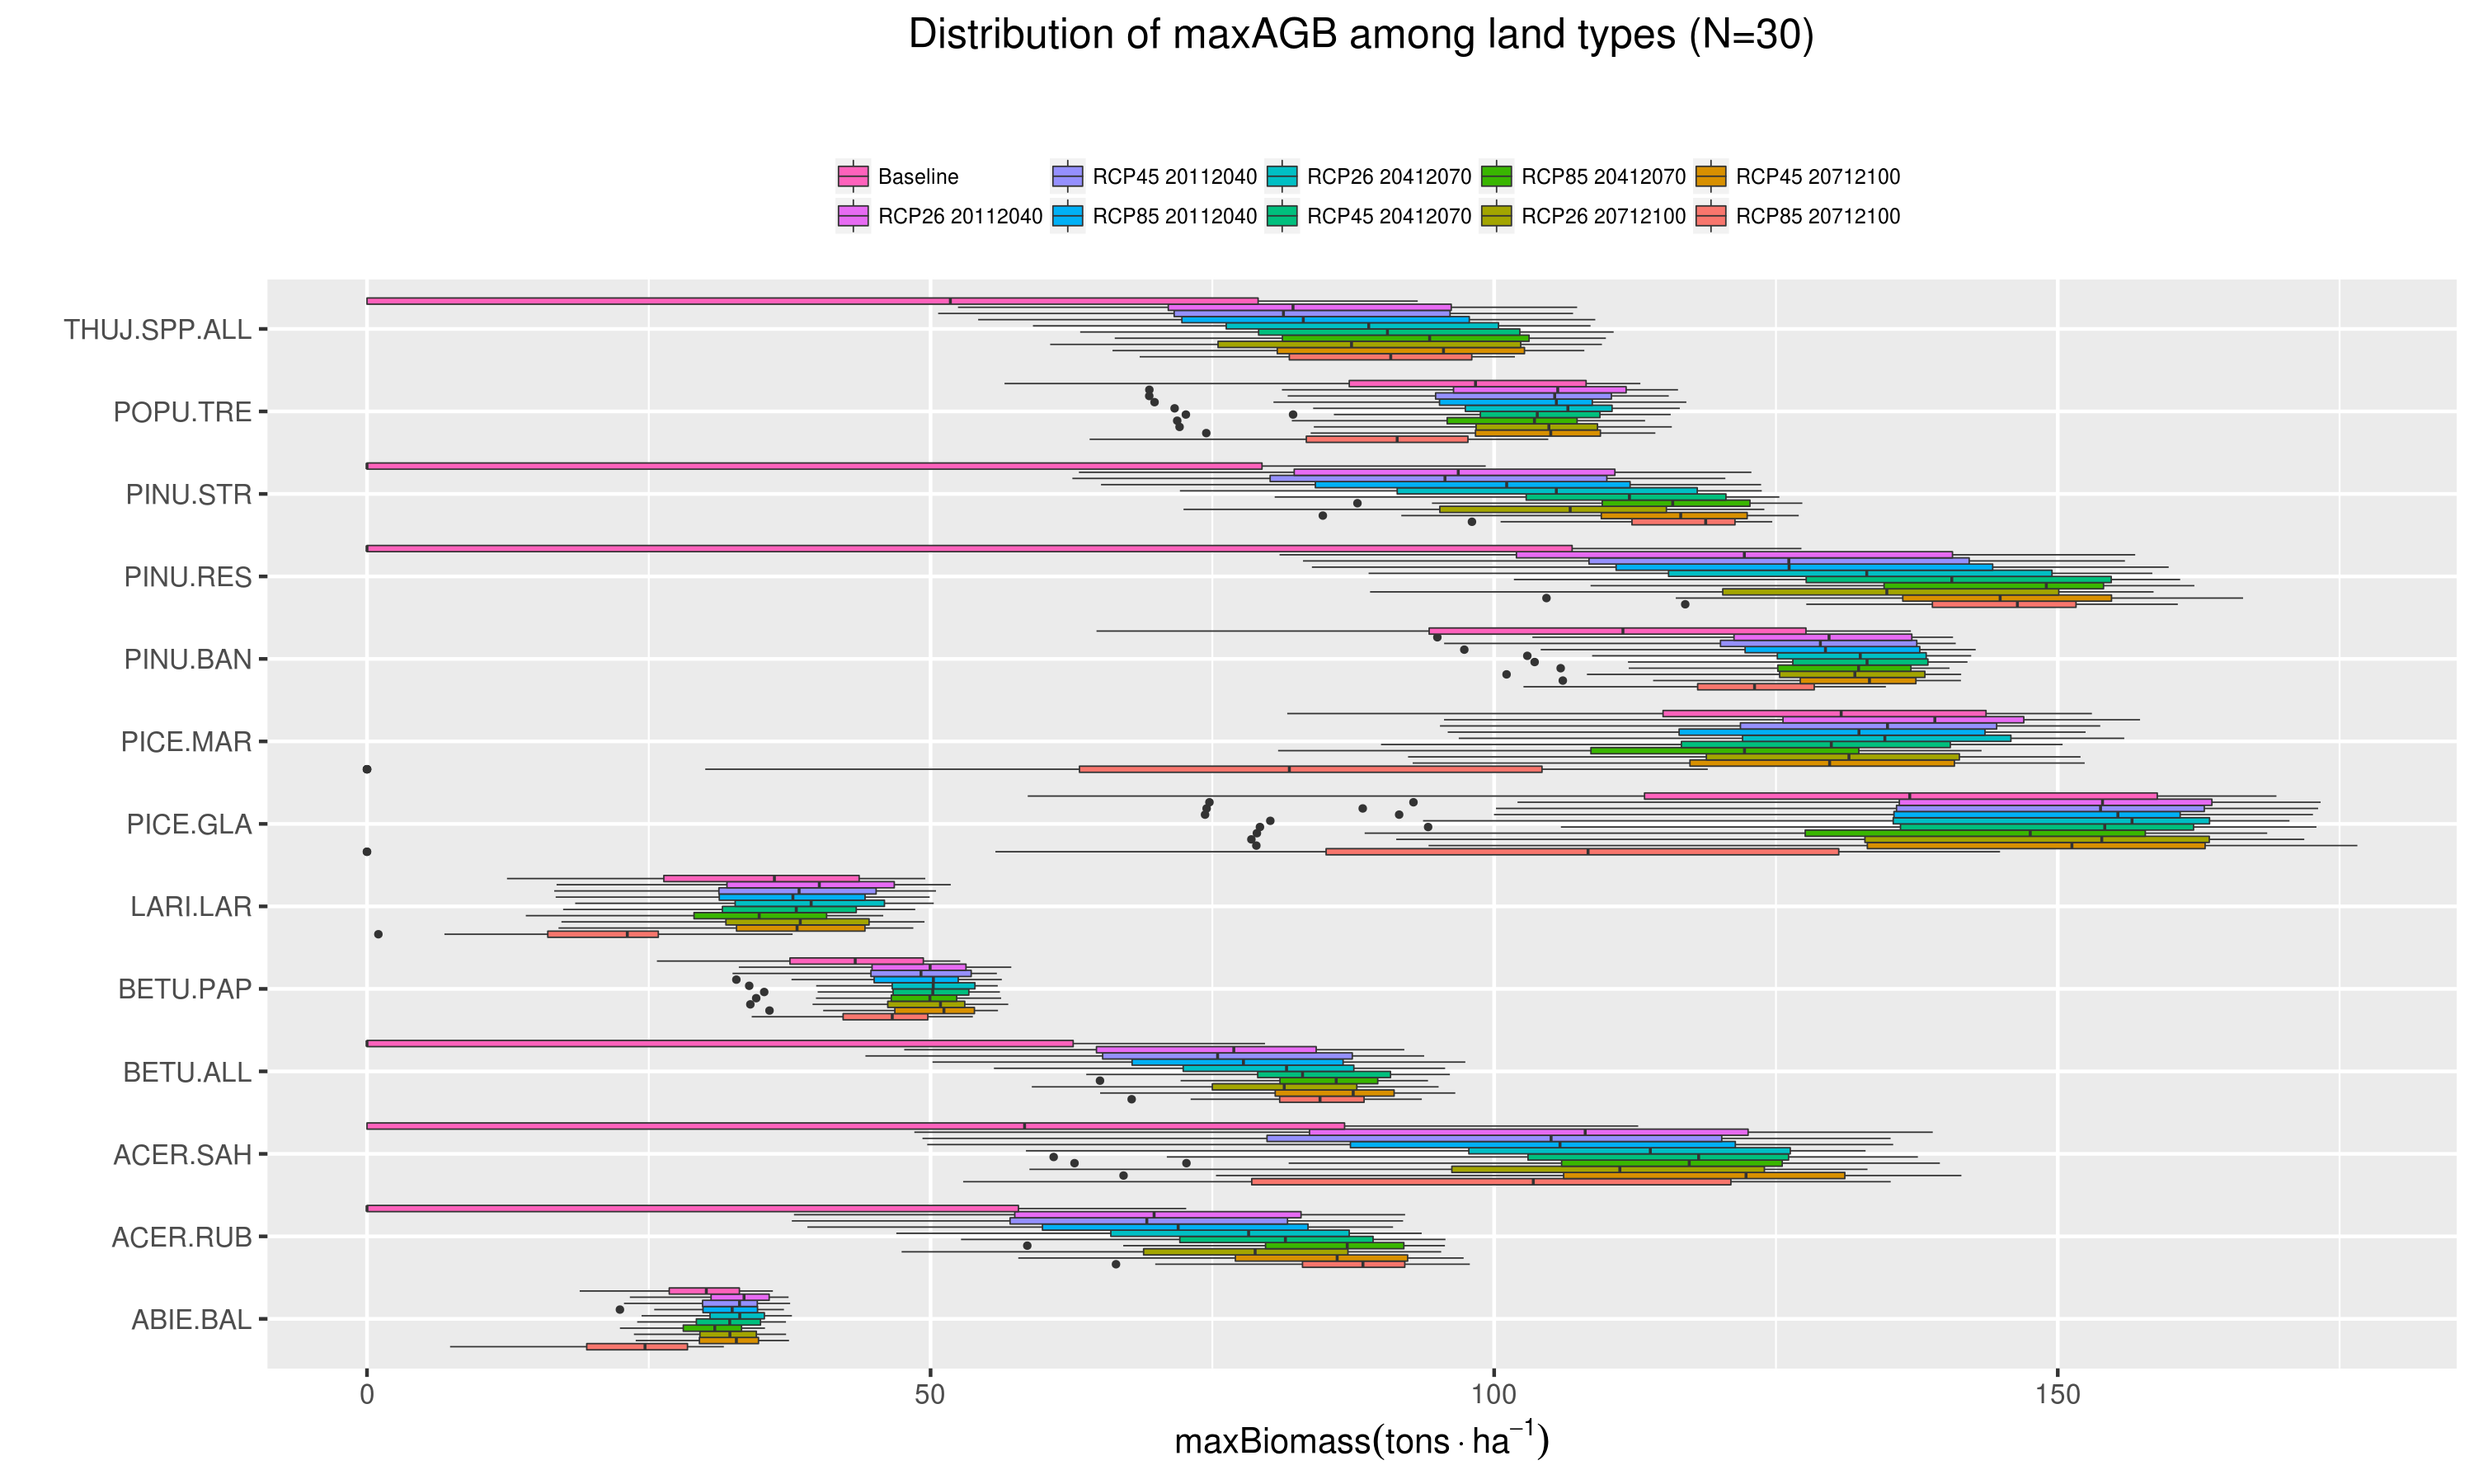
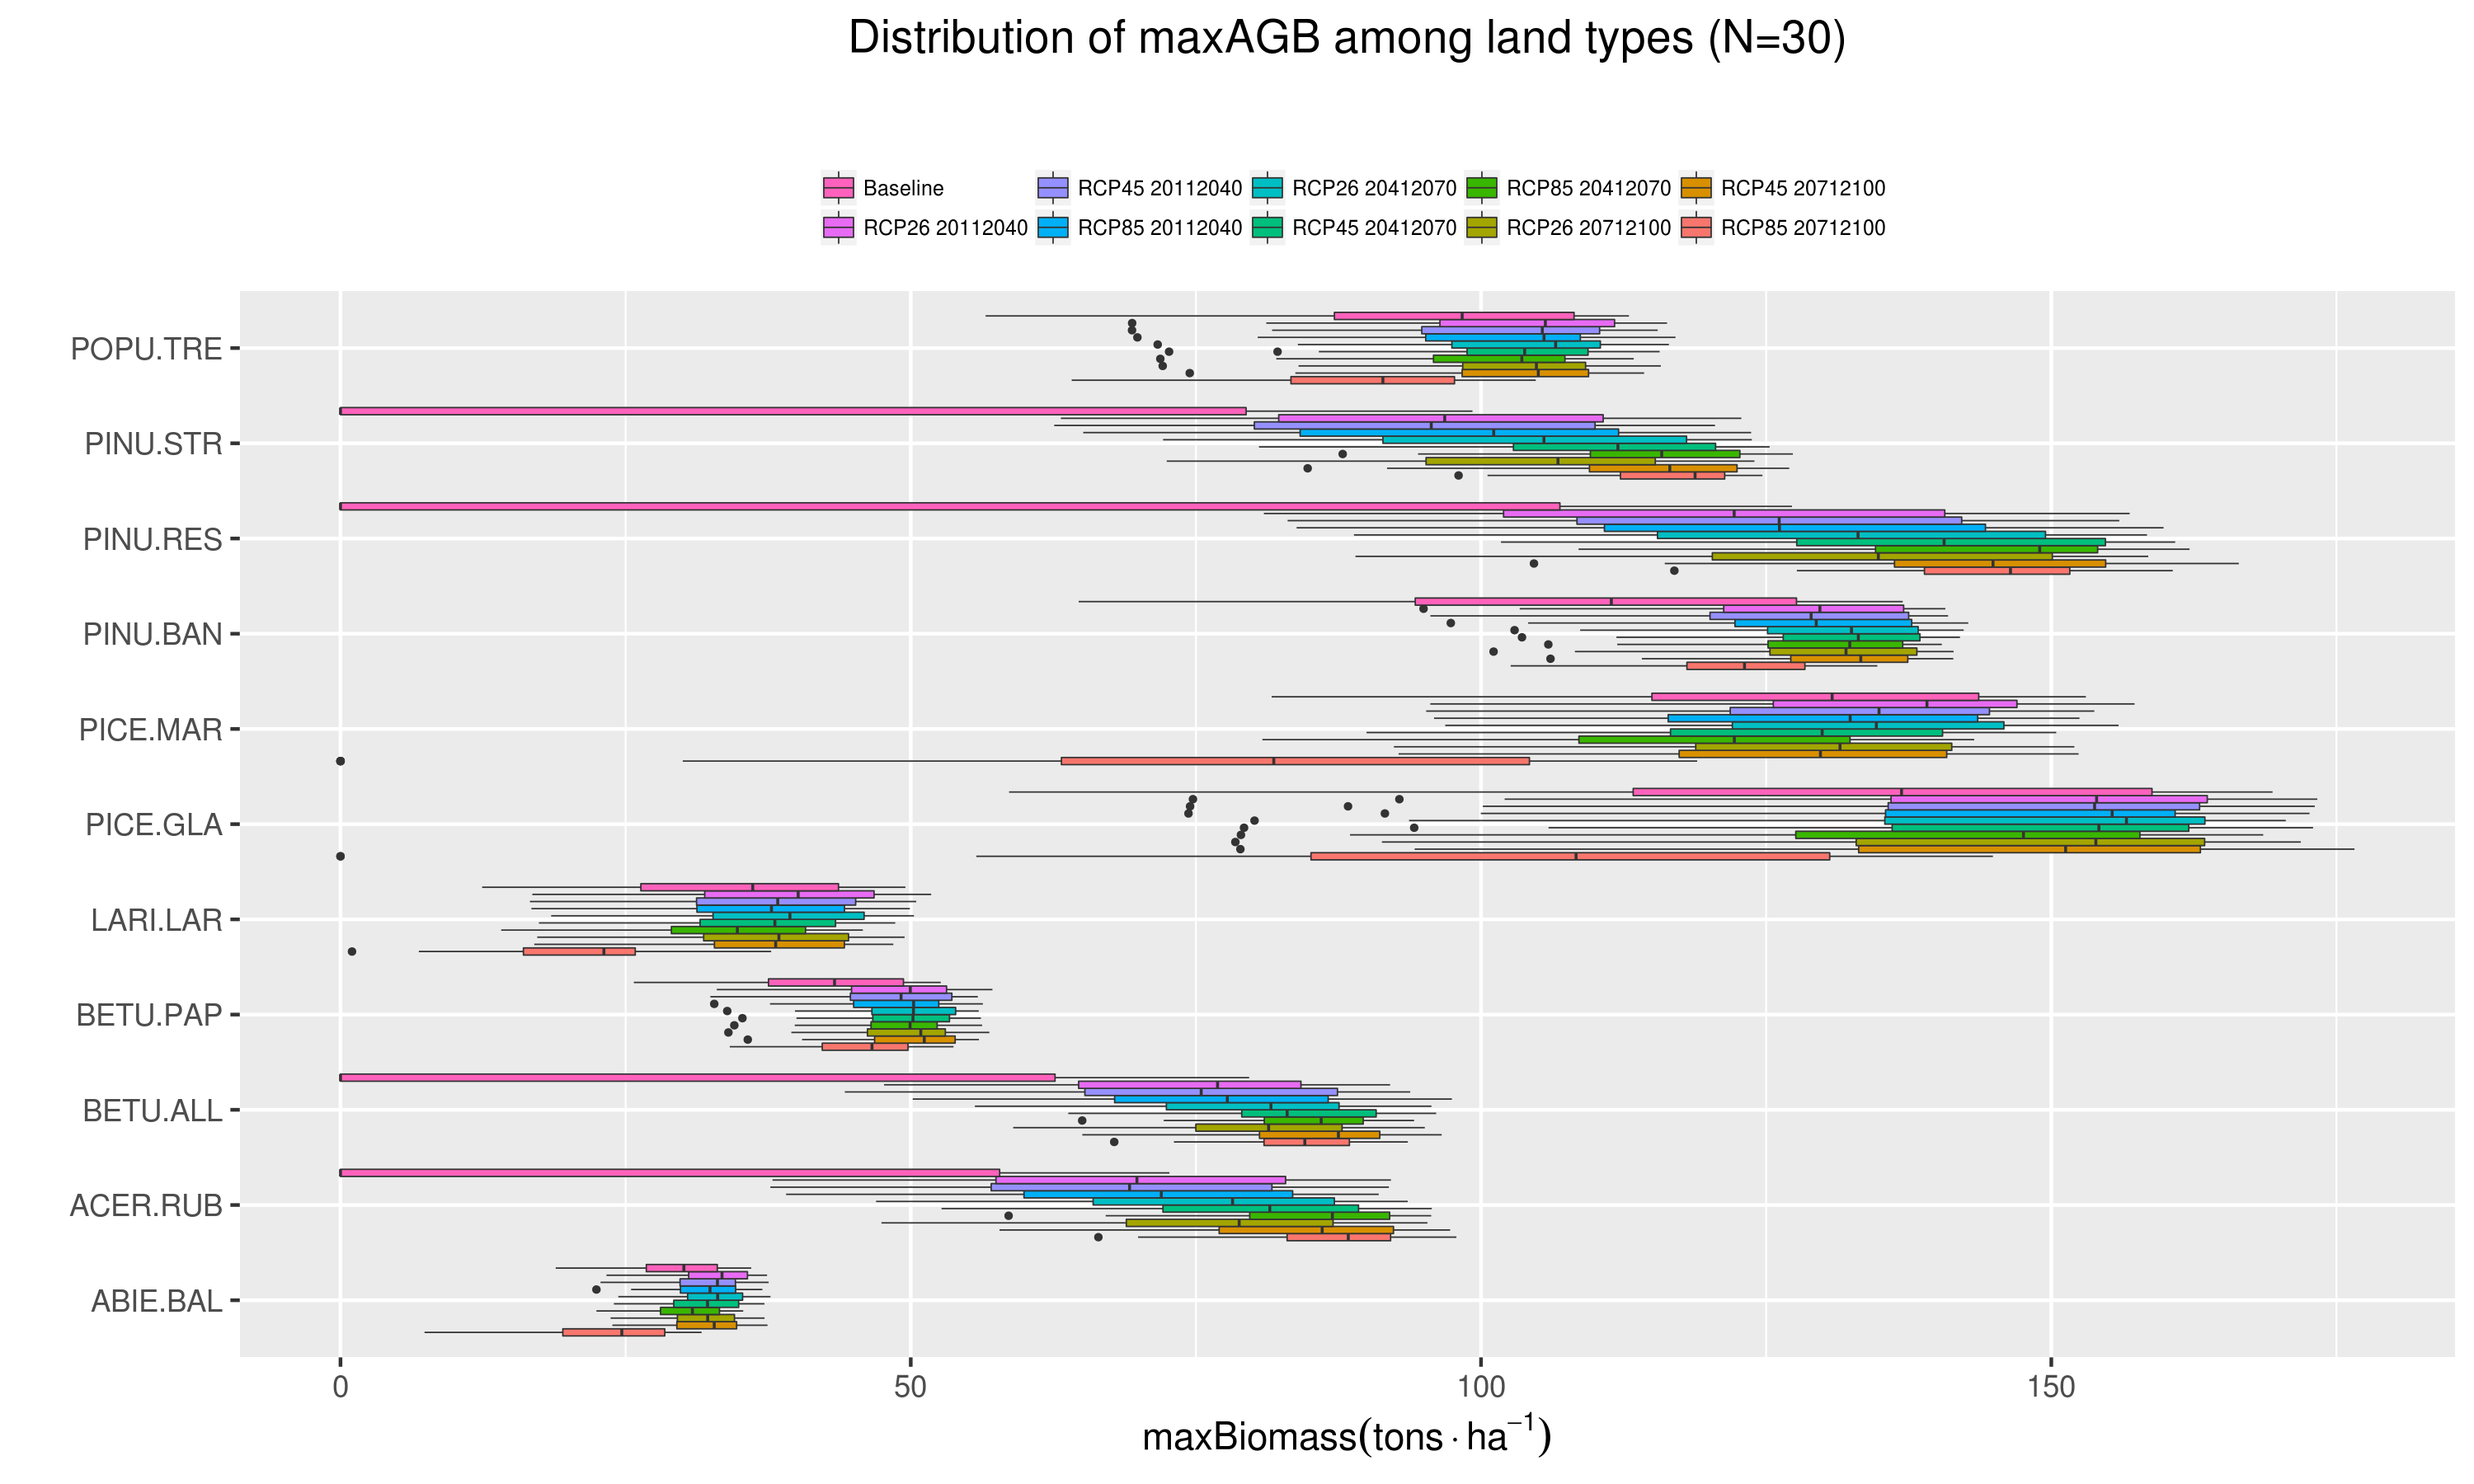
North Shore spp list updated - also now with a 5-yrs time step

diff --git a/paramViz/ParamDistribution_NorthShore.md b/paramViz/ParamDistribution_NorthShore.md
@@ -1,6 +1,6 @@
 # Picus to Landis-II Biomass Succession - North Shore
 Dominic Cyr  
-Updated on Nov 18 2016
+Updated on Nov 23 2016
 
 -------
 
@@ -32,7 +32,7 @@ Much of the succession dynamics simulated by LANDIS-II depends on those values, 
 
 -------
 
-![](..//figures/ParamDistrib_SEP_NorthShore.png)
+![](..//figures/ParamDistrib_SEP_NorthShore_5yrsTS.png)
 
 -------
 
